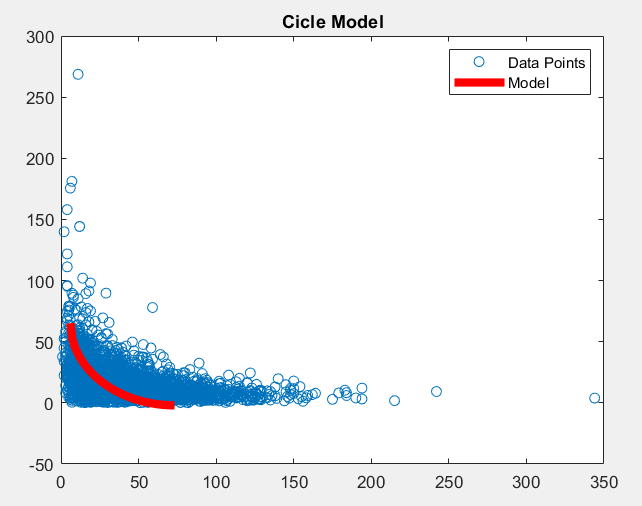
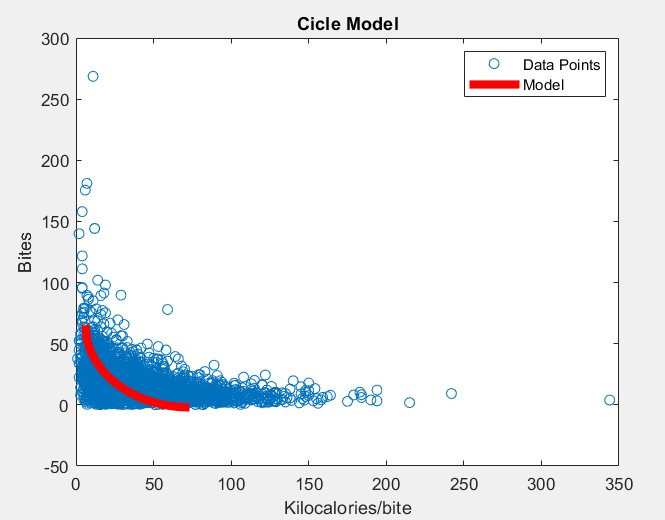
equations updated

diff --git a/1_Model_Fitting/lab_1.m b/1_Model_Fitting/lab_1.m
@@ -12,8 +12,8 @@ X = meal_data(:,3); X = X';
 data = [ X; Y];
 curve = curve_exponential(X,Y,1);
 curve_plotter(X,Y,curve)
-[c_x, c_y, c_r] = curve_circle(data);
-curve_plotter_circluar(X,Y,c_x, c_y, c_r)
+% [c_x, c_y, c_r] = curve_circle(data);
+% curve_plotter_circluar(X,Y,c_x, c_y, c_r)
 
 
 
@@ -159,6 +159,8 @@ function curve_plotter(X,Y,curve)
     fplot(curve,[min(X),max(X)],'LineWidth',5)
     title("Exponential Model")
     legend("Data Points","Model")
+    xlabel("Kilocalories/bite")
+    ylabel("Bites")
 end
 
 
@@ -180,6 +182,8 @@ function curve_plotter_circluar(X,Y,c_x, c_y, c_r)
     plot(X_eqn,Y_eqn,'r','LineWidth',5)
     title("Cicle Model")
     legend("Data Points","Model")
+    xlabel("Kilocalories/bite")
+    ylabel("Bites")
 end
 
 
